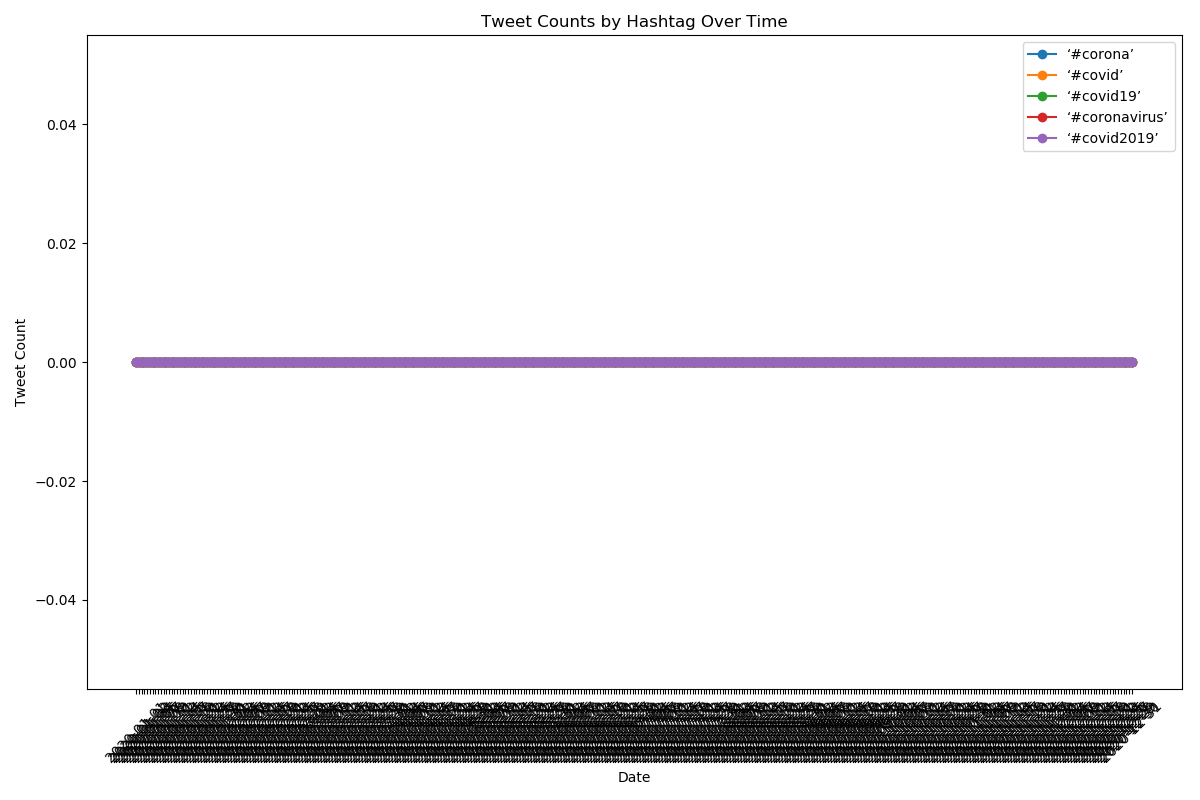
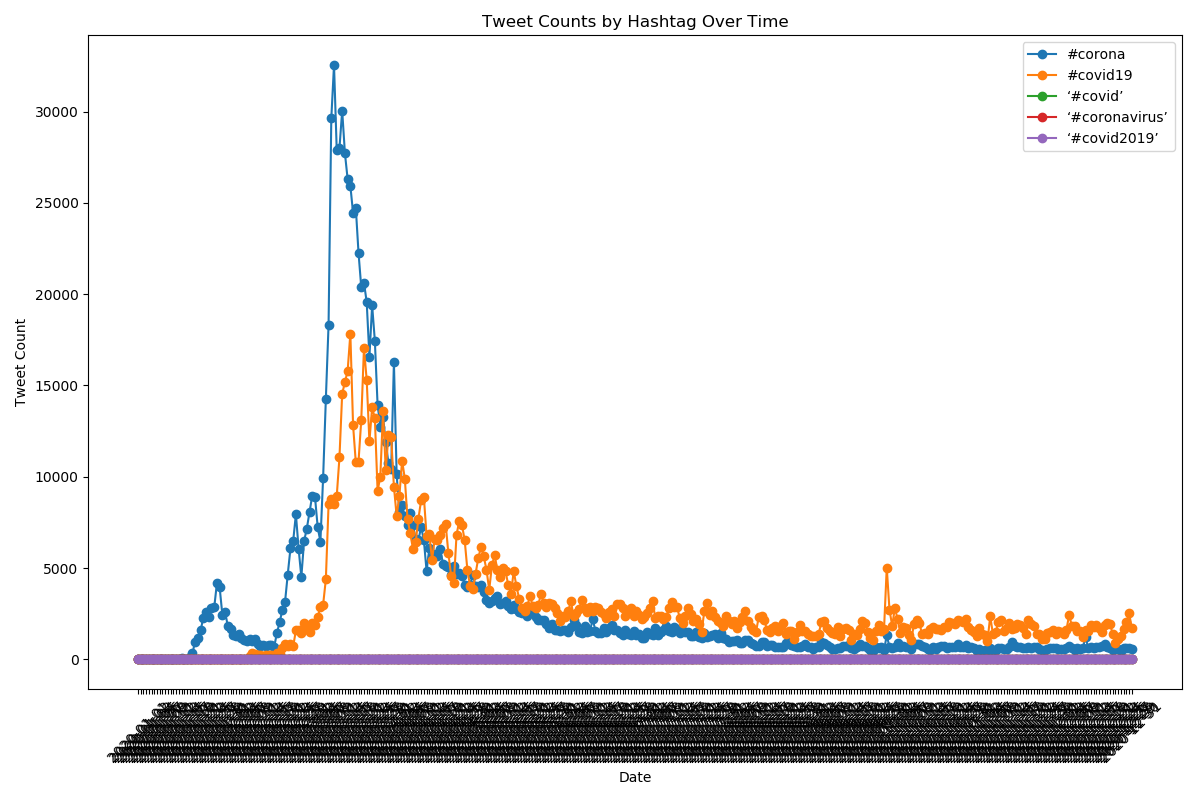
graph test

diff --git a/src/alternative_reduce.py b/src/alternative_reduce.py
@@ -32,11 +32,9 @@ for filename in sorted(os.listdir('outputs')):
 
 plt.figure(figsize=(12, 8))
 for hashtag, dates in hashtag_counts.items():
-    # Sort dates and get counts in order
-    dates_sorted = sorted(dates)
+    dates_sorted = sorted(dates.keys())
     counts = [dates[date] for date in dates_sorted]
-    
-    plt.plot(dates_sorted, counts, label=hashtag, marker='o')  # Added markers for clarity
+    plt.plot(dates_sorted, counts, label=hashtag, marker='o')
 
 plt.xlabel('Date')
 plt.ylabel('Tweet Count')
